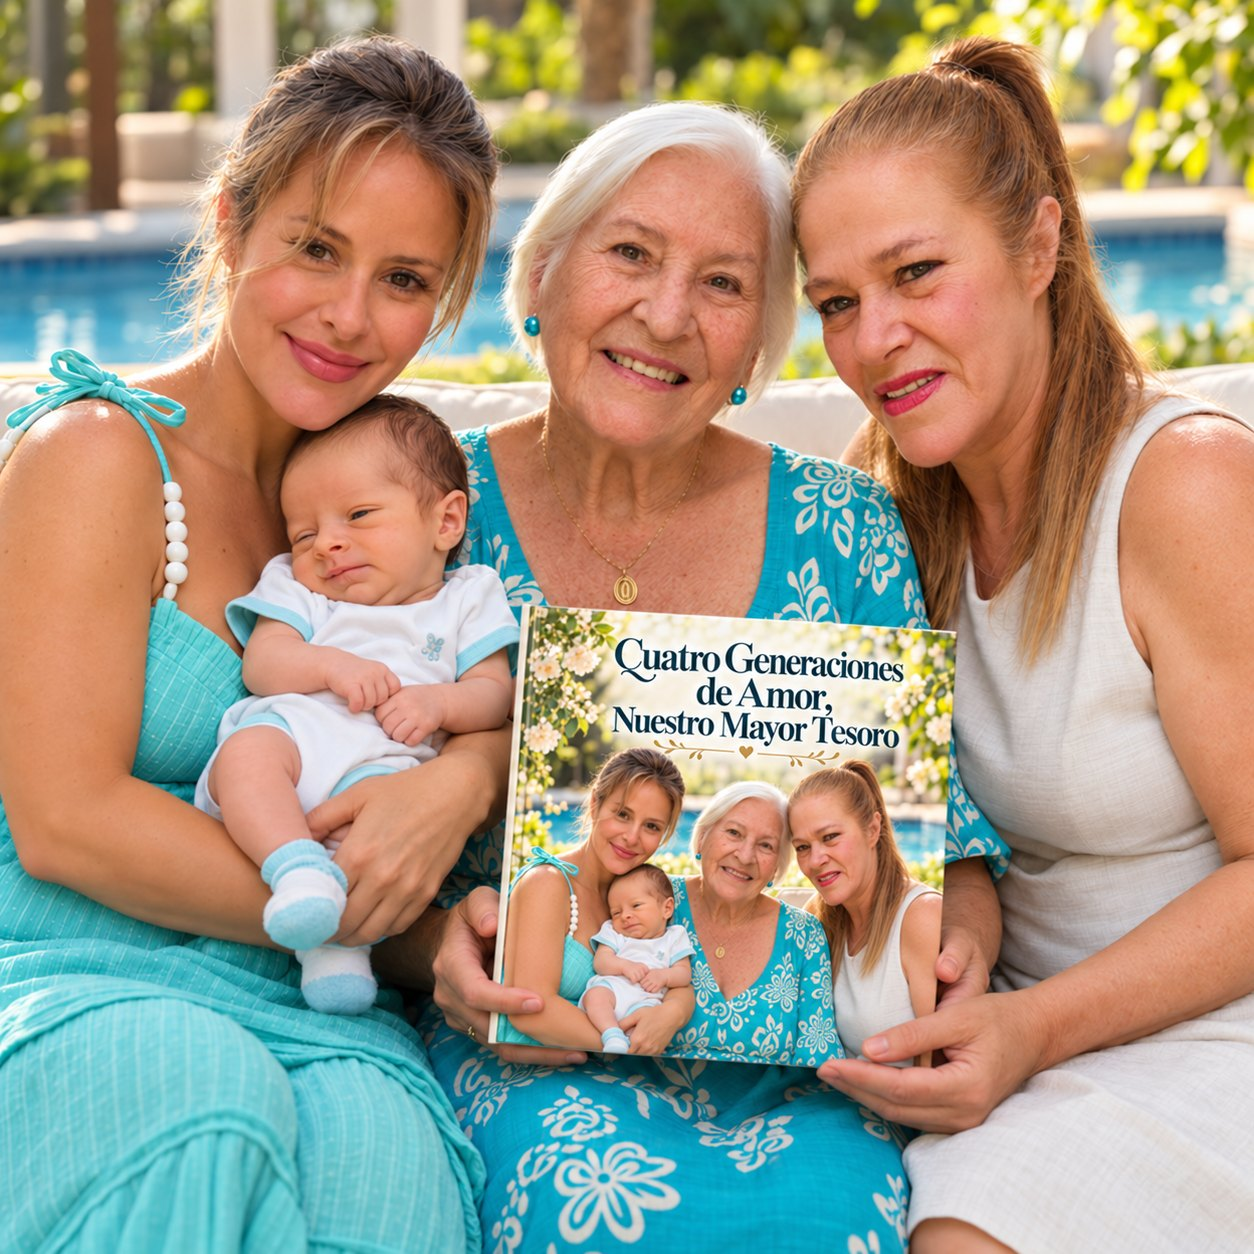
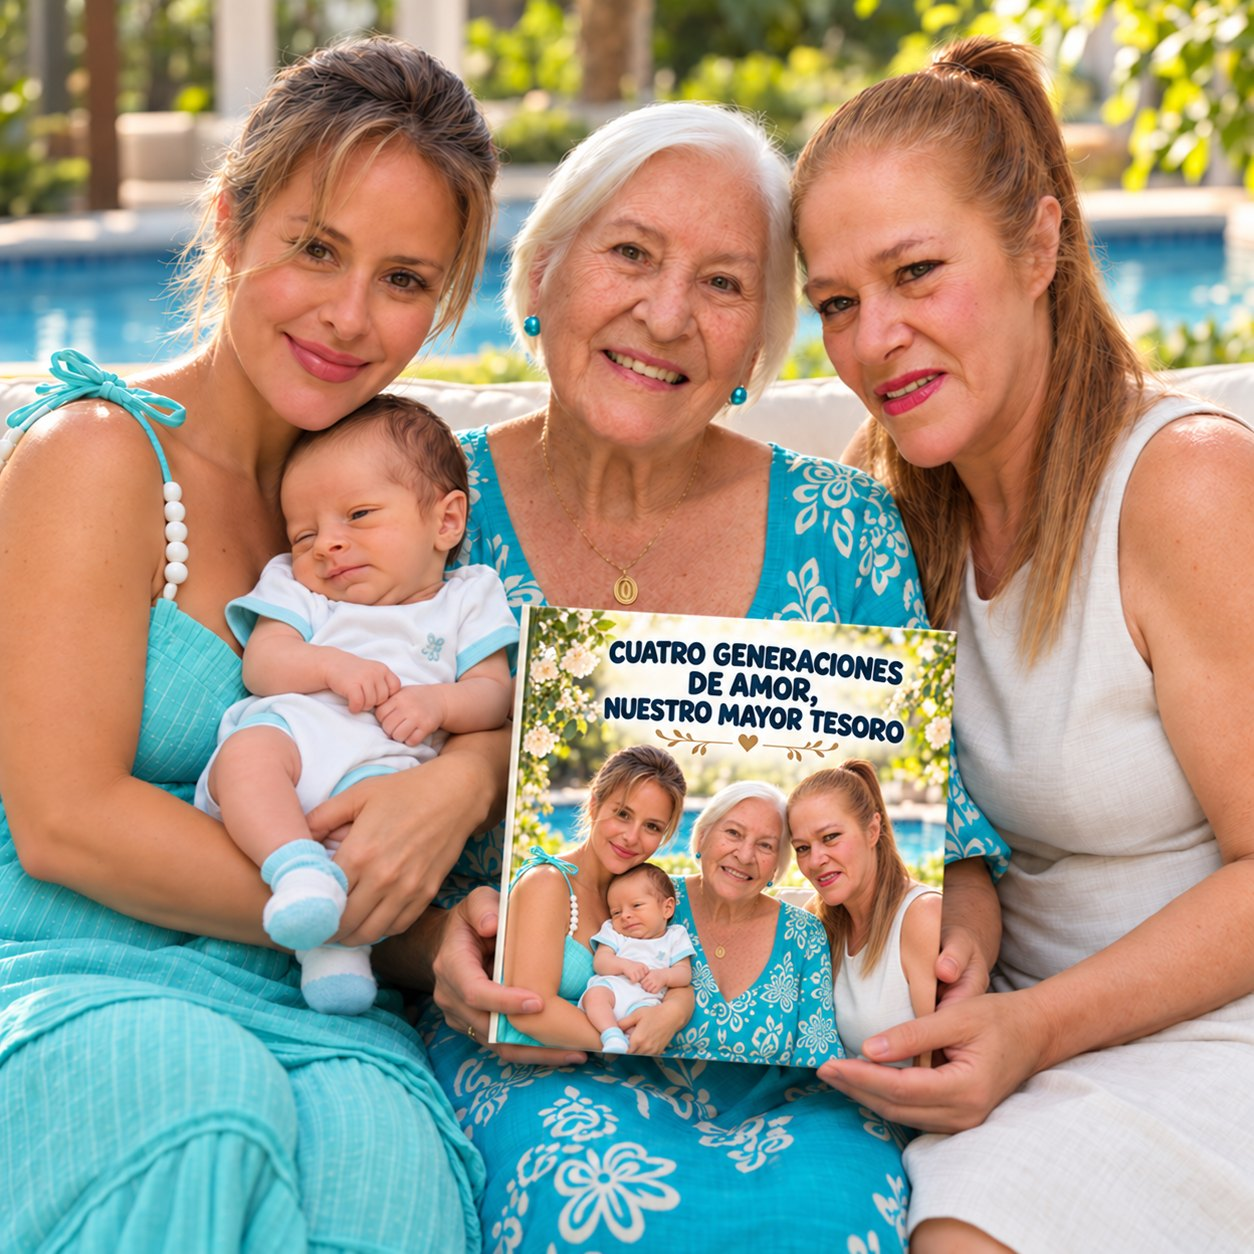
feat(catalogo): publica Amem-se Sinceramente uns aos Outros
Inclui capa, página aberta e foto de leitura em português, inglês e espanhol. Atualiza a capa e a foto de Quatro Gerações com o conjunto final.

diff --git a/apps/web/src/Landing.test.tsx b/apps/web/src/Landing.test.tsx
@@ -228,7 +228,7 @@ describe("Landing — catálogo", () => {
     expect(srcs.some((src) => src.includes("capa-lucas-max.png"))).toBe(true);
     expect(srcs.some((src) => src.includes("capa-esther-higiene.png"))).toBe(true);
     expect(srcs.some((src) => src.includes("capa-nicolas-maefilho.jpg"))).toBe(false);
-    expect(imgs).toHaveLength(28);
+    expect(imgs).toHaveLength(29);
     expect(srcs.some((src) => src.includes("capa-nanoaventuras"))).toBe(false);
   });
 
@@ -251,18 +251,19 @@ describe("Landing — catálogo", () => {
     expect(within(cards[0]).getByText(/resistente e durável/i)).toBeInTheDocument();
     expect(within(cards[0]).getAllByRole("button", { name: "SOFT" })).toHaveLength(1);
     expect(within(cards[0]).getByText(/leve e flexível/i)).toBeInTheDocument();
-    expect(within(catalog).getAllByRole("button", { name: "HARD" })).toHaveLength(28);
-    expect(cards).toHaveLength(28);
+    expect(within(catalog).getAllByRole("button", { name: "HARD" })).toHaveLength(29);
+    expect(cards).toHaveLength(29);
     expect(within(catalog).queryByText(/nano e suas aventuras/i)).not.toBeInTheDocument();
     cards.forEach((card) => {
       expect(card).toHaveAttribute("data-format", "catalog");
       expect(within(card).queryByText(/esporte e coragem/i)).not.toBeInTheDocument();
       expect(within(card).queryByText(/amizade e cuidado/i)).not.toBeInTheDocument();
     });
-    expect(within(cards[0]).getByText("Mamãe e Eu, Presente que Deus me Deu")).toBeInTheDocument();
-    expect(within(cards[1]).getByText("Quatro Gerações de Amor, Nosso Maior Valor")).toBeInTheDocument();
-    expect(within(cards[2]).getByText("Feliz Aniversário, Grace")).toBeInTheDocument();
-    expect(within(cards[3]).getByText("Aprendendo A Andar Com Grace")).toBeInTheDocument();
+    expect(within(cards[0]).getByText("Amem-se Sinceramente uns aos Outros")).toBeInTheDocument();
+    expect(within(cards[1]).getByText("Mamãe e Eu, Presente que Deus me Deu")).toBeInTheDocument();
+    expect(within(cards[2]).getByText("Quatro Gerações de Amor, Nosso Maior Valor")).toBeInTheDocument();
+    expect(within(cards[3]).getByText("Feliz Aniversário, Grace")).toBeInTheDocument();
+    expect(within(cards[4]).getByText("Aprendendo A Andar Com Grace")).toBeInTheDocument();
     expect(within(catalog).getByText("Meu Pai, Meu Herói")).toBeInTheDocument();
     expect(within(catalog).getByText("Davi, O Menino Pastor")).toBeInTheDocument();
     expect(within(catalog).getByText("Enzo, Meu Primo Predileto")).toBeInTheDocument();
@@ -284,10 +285,11 @@ describe("Landing — catálogo", () => {
     expect(within(catalog).queryByText("Nossa Família")).not.toBeInTheDocument();
     expect(within(catalog).queryByText("Minha Grande Aventura")).not.toBeInTheDocument();
     expect(within(catalog).getByText("Esther E Os Superpoderes Da Higiene")).toBeInTheDocument();
-    expect(cards[0].querySelector(".cat-book img")).toHaveAttribute("src", expect.stringContaining("capa-mamae-e-eu.png"));
-    expect(cards[1].querySelector(".cat-book img")).toHaveAttribute("src", expect.stringContaining("capa-quatro-geracoes.jpg"));
-    expect(cards[2].querySelector(".cat-book img")).toHaveAttribute("src", expect.stringContaining("capa-grace-aniversario.png"));
-    expect(cards[3].querySelector(".cat-book img")).toHaveAttribute("src", expect.stringContaining("capa-grace-andar.png"));
+    expect(cards[0].querySelector(".cat-book img")).toHaveAttribute("src", expect.stringContaining("capa-pedro-amem-se.png"));
+    expect(cards[1].querySelector(".cat-book img")).toHaveAttribute("src", expect.stringContaining("capa-mamae-e-eu.png"));
+    expect(cards[2].querySelector(".cat-book img")).toHaveAttribute("src", expect.stringContaining("capa-quatro-geracoes.jpg"));
+    expect(cards[3].querySelector(".cat-book img")).toHaveAttribute("src", expect.stringContaining("capa-grace-aniversario.png"));
+    expect(cards[4].querySelector(".cat-book img")).toHaveAttribute("src", expect.stringContaining("capa-grace-andar.png"));
     expect(within(cards[0]).getByRole("button", { name: "HARD", pressed: true })).toBeInTheDocument();
     expect(within(cards[0]).getByRole("button", { name: "SOFT", pressed: false })).toBeInTheDocument();
     expect(within(cards[0]).getByRole("button", { name: "M", pressed: true })).toBeInTheDocument();
@@ -383,24 +385,25 @@ describe("Landing — catálogo", () => {
     await screen.findByTestId("landing-hero-cta");
 
     const personalize = screen.getAllByTestId("landing-personalize");
-    expect(personalize).toHaveLength(28);
+    expect(personalize).toHaveLength(29);
     const first = studioTarget(personalize[0].getAttribute("href"));
-    expect(first).toContain("tema=mothers_day");
+    expect(first).toContain("tema=biblico");
     expect(first).toContain("campos=nome");
     expect(first).toContain("tamanho=M");
     expect(first).toContain("capa=hard");
     expect(first).toContain("modo=realista");
     expect(first).toContain("titulo=");
-    expect(first).not.toContain("heroi=");
-    expect(first).toContain("Presente que Deus");
-    expect(studioTarget(personalize[1].getAttribute("href"))).toContain("tema=family_love");
-    expect(studioTarget(personalize[1].getAttribute("href"))).toContain("heroi=Matteo");
+    expect(first).toContain("heroi=Pedro");
+    expect(first).toContain("Amem-se");
+    expect(studioTarget(personalize[1].getAttribute("href"))).toContain("tema=mothers_day");
+    expect(studioTarget(personalize[2].getAttribute("href"))).toContain("tema=family_love");
+    expect(studioTarget(personalize[2].getAttribute("href"))).toContain("heroi=Matteo");
     const construtor = personalize.find((link) => studioTarget(link.getAttribute("href")).includes("Construir e criar"));
     expect(construtor).toBeTruthy();
     expect(studioTarget(construtor ? construtor.getAttribute("href") : null)).toContain("tema=adventure");
     expect(studioTarget(construtor ? construtor.getAttribute("href") : null)).not.toContain("heroi=");
-    expect(studioTarget(personalize[2].getAttribute("href"))).toContain("tema=birthday");
-    expect(studioTarget(personalize[5].getAttribute("href"))).toContain("tema=superhero");
+    expect(studioTarget(personalize[3].getAttribute("href"))).toContain("tema=birthday");
+    expect(studioTarget(personalize[6].getAttribute("href"))).toContain("tema=superhero");
     const martin = personalize.find((link) => studioTarget(link.getAttribute("href")).includes("Martin, O Grande Goleiro"));
     expect(martin).toBeTruthy();
     expect(studioTarget(martin ? martin.getAttribute("href") : null)).toContain("tema=sport");
@@ -1161,6 +1164,21 @@ describe("Catálogo e página do livro", () => {
       "foto-mamae-e-eu.jpg",
     ]);
     expect(studioTarget(screen.getByTestId("landing-personalize").getAttribute("href"))).toContain("tema=mothers_day");
+  });
+
+  it("mostra capa, página e foto de Amem-se Sinceramente", async () => {
+    render(
+      <MemoryRouter initialEntries={["/livro/41"]}>
+        <AppRoutes />
+      </MemoryRouter>,
+    );
+    expect(await screen.findByRole("heading", { name: /amem-se sinceramente uns aos outros/i })).toBeInTheDocument();
+    await expectSeriesFlip(screen.getByTestId("book-series"), [
+      "capa-pedro-amem-se.png",
+      "pagina-pedro-amem-se.jpg",
+      "foto-pedro-amem-se.jpg",
+    ]);
+    expect(studioTarget(screen.getByTestId("landing-personalize").getAttribute("href"))).toContain("tema=biblico");
   });
 
   it("abre o catálogo completo da categoria", async () => {

diff --git a/apps/web/src/Landing.tsx b/apps/web/src/Landing.tsx
@@ -248,6 +248,7 @@ const CATALOG_IMGS: CatalogImg[] = [
   { pt: "capa-grace-andar.png", en: "capa-grace-andar-en.png", es: "capa-grace-andar-es.png" },
   { pt: "capa-quatro-geracoes.jpg", en: "capa-quatro-geracoes-en.jpg", es: "capa-quatro-geracoes-es.jpg" },
   { pt: "capa-mamae-e-eu.png", en: "capa-mamae-e-eu-en.png", es: "capa-mamae-e-eu-es.png" },
+  { pt: "capa-pedro-amem-se.png", en: "capa-pedro-amem-se-en.png", es: "capa-pedro-amem-se-es.png" },
 ];
 type CatalogSeriesShot = { cover: CatalogImg; page?: CatalogImg; photo?: CatalogImg };
 /** Série capa / página / foto por índice do catálogo (quando existir em /exemplos). */
@@ -392,6 +393,11 @@ const CATALOG_SERIES: Record<number, CatalogSeriesShot> = {
     page: { pt: "pagina-mamae-e-eu.jpg", en: "pagina-mamae-e-eu-en.jpg", es: "pagina-mamae-e-eu-es.jpg" },
     photo: { pt: "foto-mamae-e-eu.jpg", en: "foto-mamae-e-eu-en.jpg", es: "foto-mamae-e-eu-es.jpg" },
   },
+  41: {
+    cover: { pt: "capa-pedro-amem-se.png", en: "capa-pedro-amem-se-en.png", es: "capa-pedro-amem-se-es.png" },
+    page: { pt: "pagina-pedro-amem-se.jpg", en: "pagina-pedro-amem-se-en.jpg", es: "pagina-pedro-amem-se-es.jpg" },
+    photo: { pt: "foto-pedro-amem-se.jpg", en: "foto-pedro-amem-se-en.jpg", es: "foto-pedro-amem-se-es.jpg" },
+  },
 };
 /** Série cartoon (capa, página, foto) quando o livro tem as três imagens em desenho. */
 const CARTOON_SERIES: Record<number, CatalogSeriesShot> = {
@@ -462,6 +468,7 @@ const CATALOG_THEMES = [
   "family_love",
   "family_love",
   "mothers_day",
+  "biblico",
 ];
 /** Janela da vitrine. Era 15; desceu 1 quando o Bruno saiu do meio da lista. */
 const CATALOG_LIMIT = 14;
@@ -470,9 +477,9 @@ const HIDDEN_BOOK_INDEXES = new Set([10, 13, 32]);
 /** Índices fora do catálogo realista: capas em desenho e o aniversário da Ester. */
 const CATALOG_CARTOON_INDEXES = new Set([1, 2, 3, 4, 13, 33]);
 /** Livros novos em português, depois do limite dos 15 primeiros. */
-const CATALOG_NEW_INDEXES = new Set([19, 20, 21, 22, 23, 24, 25, 26, 27, 28, 29, 30, 31, 34, 35, 36, 37, 38, 39, 40]);
+const CATALOG_NEW_INDEXES = new Set([19, 20, 21, 22, 23, 24, 25, 26, 27, 28, 29, 30, 31, 34, 35, 36, 37, 38, 39, 40, 41]);
 /** Primeiros da vitrine: livros novos, depois Meu Pai, Davi, Enzo e o Martin. */
-const CATALOG_LEAD = [40, 39, 37, 38, 25, 26, 27, 28, 29, 30, 21, 20, 22, 31, 0, 33];
+const CATALOG_LEAD = [41, 40, 39, 37, 38, 25, 26, 27, 28, 29, 30, 21, 20, 22, 31, 0, 33];
 type CatalogCoverChoice = "soft" | "hard";
 type CatalogSizeChoice = "M" | "P";
 function catalogCoverChoice(cover?: string): CatalogCoverChoice {
@@ -610,7 +617,7 @@ const MENU_BOOKS: Record<string, readonly number[]> = {
   animais_sons: [34],
   economia: [35],
   higiene_desfralde: [24],
-  biblico: [20],
+  biblico: [41, 20],
 };
 function catalogSectionId(theme: string | null | undefined): string {
   if (!theme) return "aventuras";
@@ -698,6 +705,7 @@ const HERO_BY_CATALOG: Record<number, string> = {
   37: "Grace",
   38: "Grace",
   39: "Matteo",
+  41: "Pedro",
 };
 function personalizeHref(opts: {
   theme: string;
@@ -998,6 +1006,7 @@ const I18N = {
       { t: "Aprendendo A Andar Com Grace", p: "Os primeiros passos no parque, com a mamãe de braços abertos: cada passinho vira uma história para guardar.", cover: "Hard", size: "M", tag: "Primeiros passos", quote: "Um passo de cada vez, já vai caminhar." },
       { t: "Quatro Gerações de Amor, Nosso Maior Valor", p: "Matteo, a mamãe Ana, Lullys e Iolanda: quatro gerações num só abraço, uma história para guardar.", cover: "Hard", size: "M", tag: "Quatro gerações", quote: "O amor da família sempre permanece." },
       { t: "Mamãe e Eu, Presente que Deus me Deu", p: "No colo da mamãe, amor e proteção: um presente de Deus vira uma história para guardar.", cover: "Hard", size: "M", tag: "Mamãe e eu", quote: "Presente que Deus me deu." },
+      { t: "Amem-se Sinceramente uns aos Outros", p: "Pedro ouve o chamado, deixa as redes e aprende com Jesus a amar: uma história de fé para guardar.", cover: "Hard", size: "M", tag: "1 Pedro 4:8", quote: "Quem ama, perdoa e sabe servir." },
     ],
     promise_title: "Um Presente Personalizado Para Eternizar Momentos Inesquecíveis.",
     promise_sub: "Da foto à prévia final, cada detalhe é criado com carinho, dando vida a um presente único para toda a vida.",
@@ -1230,6 +1239,7 @@ const I18N = {
       { t: "Learning To Walk With Grace", p: "First steps in the park, with mom's arms open: every little step becomes a story to keep.", cover: "Hard", size: "M", tag: "First steps", quote: "One step at a time, and then she walks." },
       { t: "Four Generations of Love, Our Greatest Treasure", p: "Matteo, Mommy Ana, Lullys and Iolanda: four generations in one embrace, a story to keep.", cover: "Hard", size: "M", tag: "Four generations", quote: "Through every generation, love grows." },
       { t: "Mommy and Me, a Gift God Gave to Me", p: "In Mommy's arms, love and protection: a gift from God becomes a story to keep.", cover: "Hard", size: "M", tag: "Mommy and me", quote: "A gift God gave to me." },
+      { t: "Love One Another Sincerely", p: "Peter hears the call, leaves his nets and learns from Jesus how to love: a story of faith to keep.", cover: "Hard", size: "M", tag: "1 Peter 4:8", quote: "Whoever loves, forgives and knows how to serve." },
     ],
     promise_title: "Every Detail Crafted to Feel Special",
     promise_sub: "From the photo to the preview, everything is made so the book is ready to gift.",
@@ -1462,6 +1472,7 @@ const I18N = {
       { t: "Aprendiendo A Caminar Con Grace", p: "Los primeros pasos en el parque, con los brazos de mamá abiertos: cada pasito se vuelve una historia para guardar.", cover: "Hard", size: "M", tag: "Primeros pasos", quote: "Un paso a la vez, y ya va a caminar." },
       { t: "Cuatro Generaciones de Amor, Nuestro Mayor Tesoro", p: "Matteo, mamá Ana, Lullys e Iolanda: cuatro generaciones en un abrazo, una historia para guardar.", cover: "Hard", size: "M", tag: "Cuatro generaciones", quote: "El amor de familia siempre permanece." },
       { t: "Mamá y Yo, el Regalo que Dios me Dio", p: "En los brazos de mamá, amor y protección: un regalo de Dios se vuelve una historia para guardar.", cover: "Hard", size: "M", tag: "Mamá y yo", quote: "El regalo que Dios me dio." },
+      { t: "Ámense Sinceramente Unos a Otros", p: "Pedro escucha el llamado, deja las redes y aprende de Jesús a amar: una historia de fe para guardar.", cover: "Hard", size: "M", tag: "1 Pedro 4:8", quote: "Quien ama, perdona y sabe servir." },
     ],
     promise_title: "Cada Detalle Pensado Para Ser Especial",
     promise_sub: "Del envío de la foto a la vista previa, todo está hecho para que el libro quede listo para regalar.",
